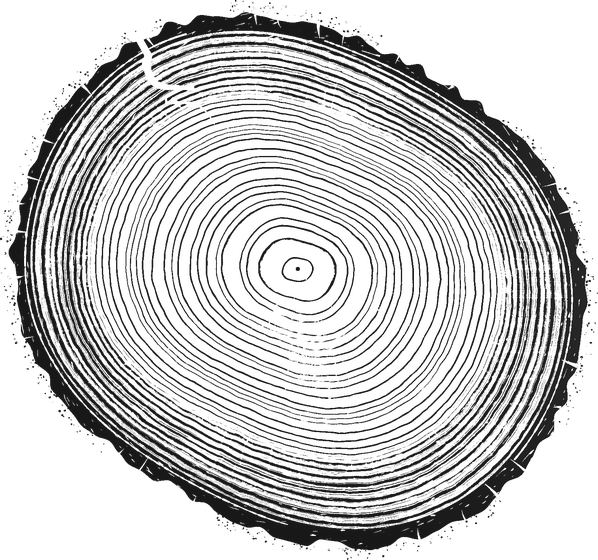
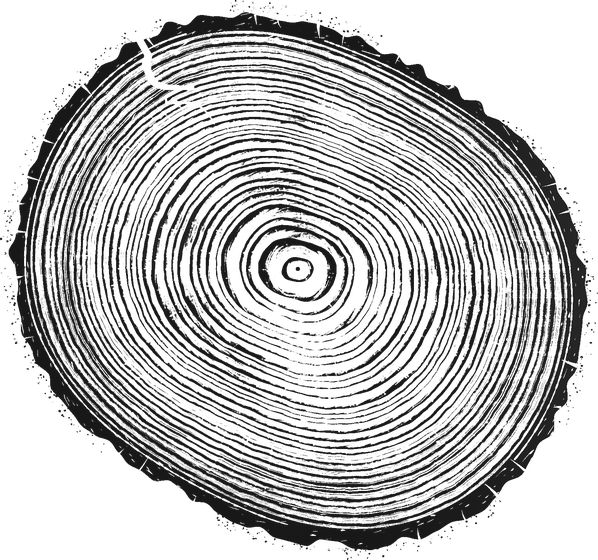
Pinch finishes the drawing back and the growing year; slice never far past its size; bolder fir
Claude-Session: https://claude.ai/code/session_01WhGxUDQ2nhT1B8pKnZrdq5

diff --git a/src/rings/press.ts b/src/rings/press.ts
@@ -688,7 +688,23 @@ function makeRoom(): void {
   const v = baseNow();
   // (Where the new bark was drawn, it stays at first: the slice then draws back from there.)
   const from = was.s * warpR(old, bark) / Math.max(1e-6, warpR(warp, bark));
-  ease = { from: Math.min(from, 3 * v.s), at: clock() };
+  // (Never much larger than it rests: a wide loop's year is shown a little large at first, never filling
+  // the sheet.)
+  ease = { from: Math.min(from, 1.3 * v.s), at: clock() };
+}
+/**
+ * Looked into while the slice is still drawing back: the drawing back is finished at once, and the look
+ * made that much closer, so nothing moves under the fingers, nothing goes on moving after, and looking
+ * out again (a double tap) finds the slice at its own size. And a year still growing is grown.
+ */
+function holdForLook(): void {
+  growing = null;
+  if (!ease) return;
+  const cur = baseNow();
+  ease = null; view = null;
+  const fin = baseNow(), k = look.k * (cur.s / Math.max(1e-6, fin.s));
+  if (k >= 1) look = { k, ox: look.ox + (cur.cx - fin.cx), oy: look.oy + (cur.cy - fin.cy) };
+  else view = cur;
 }
 /** A touch: the slice stops drawing back, where it is. */
 function holdView(): void {
@@ -740,7 +756,7 @@ canvas.addEventListener('pointerdown', (e) => {
   if (fingers.size === 2) {
     // A second finger: a pinch, not a ring (the line begun is let go).
     if (painter !== null) { tree.cancel(); trail = []; painter = null; }
-    holdView(); pinch = spread(); pinched = true;
+    holdForLook(); pinch = spread(); pinched = true;
     return;
   }
   if (fingers.size > 2 || painter !== null) return;
@@ -880,7 +896,7 @@ for (const type of ['pointerup', 'pointercancel'] as const) canvas.addEventListe
 canvas.addEventListener('wheel', (e) => {
   e.preventDefault();
   if (painter !== null) return;
-  holdView(); zoomAbout(e.clientX * px, e.clientY * px, Math.exp(-e.deltaY * 0.002));
+  holdForLook(); zoomAbout(e.clientX * px, e.clientY * px, Math.exp(-e.deltaY * 0.002));
   clearTimeout(wheelT); wheelT = window.setTimeout(() => { if (far > 0 && far < 1 && fingers.size === 0 && !farTo) settleFar(); }, 220);
 }, { passive: false });
 let wheelT = 0;
@@ -1864,7 +1880,7 @@ const ANATOMY: Partial<Record<Kind, Anatomy>> = {
   // Olive: dense, close and irregular, its figure a dark mottle wandering through the years.
   olive: { early: 0.6, late: 0.96, share: 0.22, edge: 1.0, rays: 0.6, rayW: 0.3, pores: 0.05, poreR: 0.3, poreEarly: 0, fibre: 0.35, mottle: 0.45 },
   // Douglas fir: a pale, soft earlywood, then all at once a dark latewood: the boldest year of them all.
-  fir: { early: 0.1, late: 1.12, share: 0.3, edge: 1.12, rays: 0, rayW: 0, pores: 0, poreR: 0, poreEarly: 0, fibre: 0.4, mottle: 0, sharp: 3.2 },
+  fir: { early: 0.3, late: 1.15, share: 0.5, edge: 1.12, rays: 0, rayW: 0, pores: 0, poreR: 0, poreEarly: 0, fibre: 0.7, mottle: 0.15, sharp: 1.8 },
   // Juniper: fine and close, its latewood thin and its years irregular, a soft figure through them.
   juniper: { early: 0.3, late: 1.0, share: 0.26, edge: 1.04, rays: 0, rayW: 0, pores: 0, poreR: 0, poreEarly: 0, fibre: 0.45, mottle: 0.25 },
 };

diff --git a/RINGS-HISTORY.md b/RINGS-HISTORY.md
@@ -182,3 +182,5 @@ Still to come (`trees.ts`): a redwood with fires, a bristlecone with drought, a 
 **An even pace, and a brush's line** (since October 17). Motion stuttered: left alone, the frames came half as often, but the slice breathes and a year grows then, so it ran by turns at sixty and thirty; and the sharper print was pressed in a slice of each frame on top of the frame's own work, past the phone's sixteen milliseconds. Now every frame is drawn, and the print is pressed only in what the frame leaves over (a strip at least every quarter second, so it always comes). And the day's line, an even marker's stroke kinked wherever the finger wavered, is a brush's: the hand's path eased round its wavers, fine where it touched down, swelling and thinning as it goes, drawn to a point at its head while it moves, its edges a little ragged, and where the hand hurried the bristles run dry and leave the paper between them.
 
 **Looked into, still** (since October 17). Two things moved a slice looked into after the fingers lifted: the sharper print, pressed for the view, replaced the enlarged one all at once, its rays and grain (too fine to see before) appearing in a frame; and the breath, a sixtieth's swell, enlarged three times over into a pumping of the lines. Now the picture replaced fades out over the new one (`fading`, some half a second), and the slice doesn't breathe while it's looked into.
+
+**Zoom that holds, a slice its own size, a bolder fir** (since October 17). A ring closed, the slice is shown where the loop was drawn and draws back to its own size over a minute and a half; a pinch then froze it there for good (so a slice could stay the size of a wide loop, filling the sheet), and the year went on growing under the fingers, the rings sliding out after the zoom. Now a pinch finishes the drawing back at once and makes the look that much closer instead (`holdForLook`), so nothing moves under the fingers or after them, and zooming out finds the slice its own size; a year still growing is grown. A wide loop's year is shown at most three-tenths larger at first. And Douglas fir's years were near bare paper with a thin line; now each is a broad dark latewood building from a speckled earlywood, as a fir prints.
